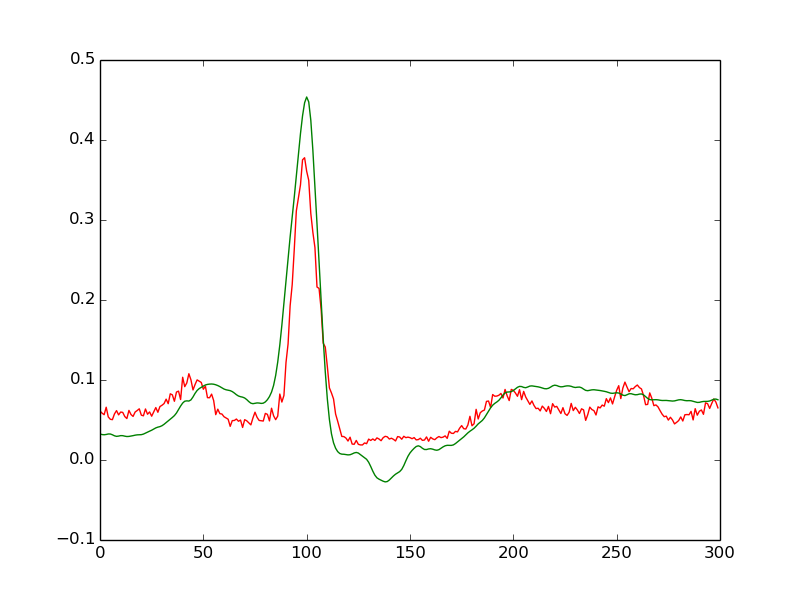
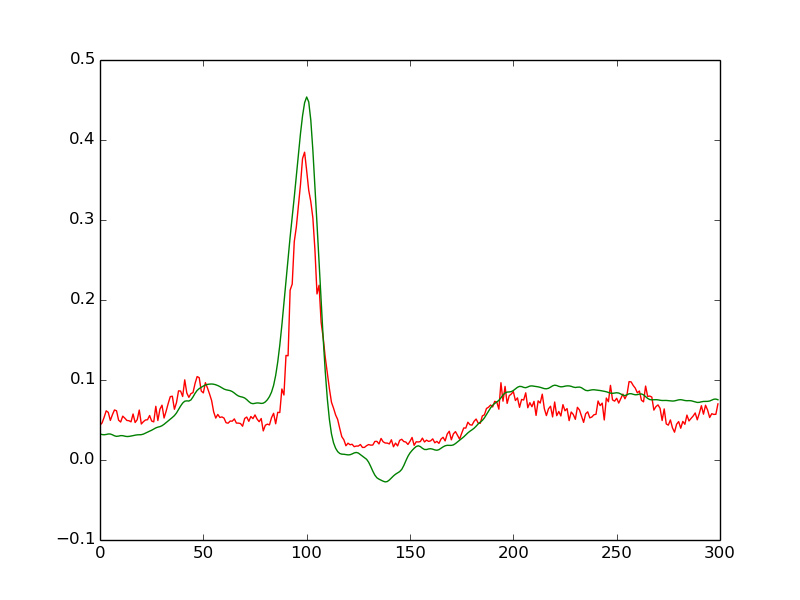
hidden 100

diff --git a/dA.py b/dA.py
@@ -327,7 +327,7 @@ def test_dA(learning_rate=0.01, training_epochs=200,
         theano_rng=theano_rng,
         input=x,
         n_visible=300,
-        n_hidden=50
+        n_hidden=100
     ) 
 
     cost, updates = da.get_cost_updates(
